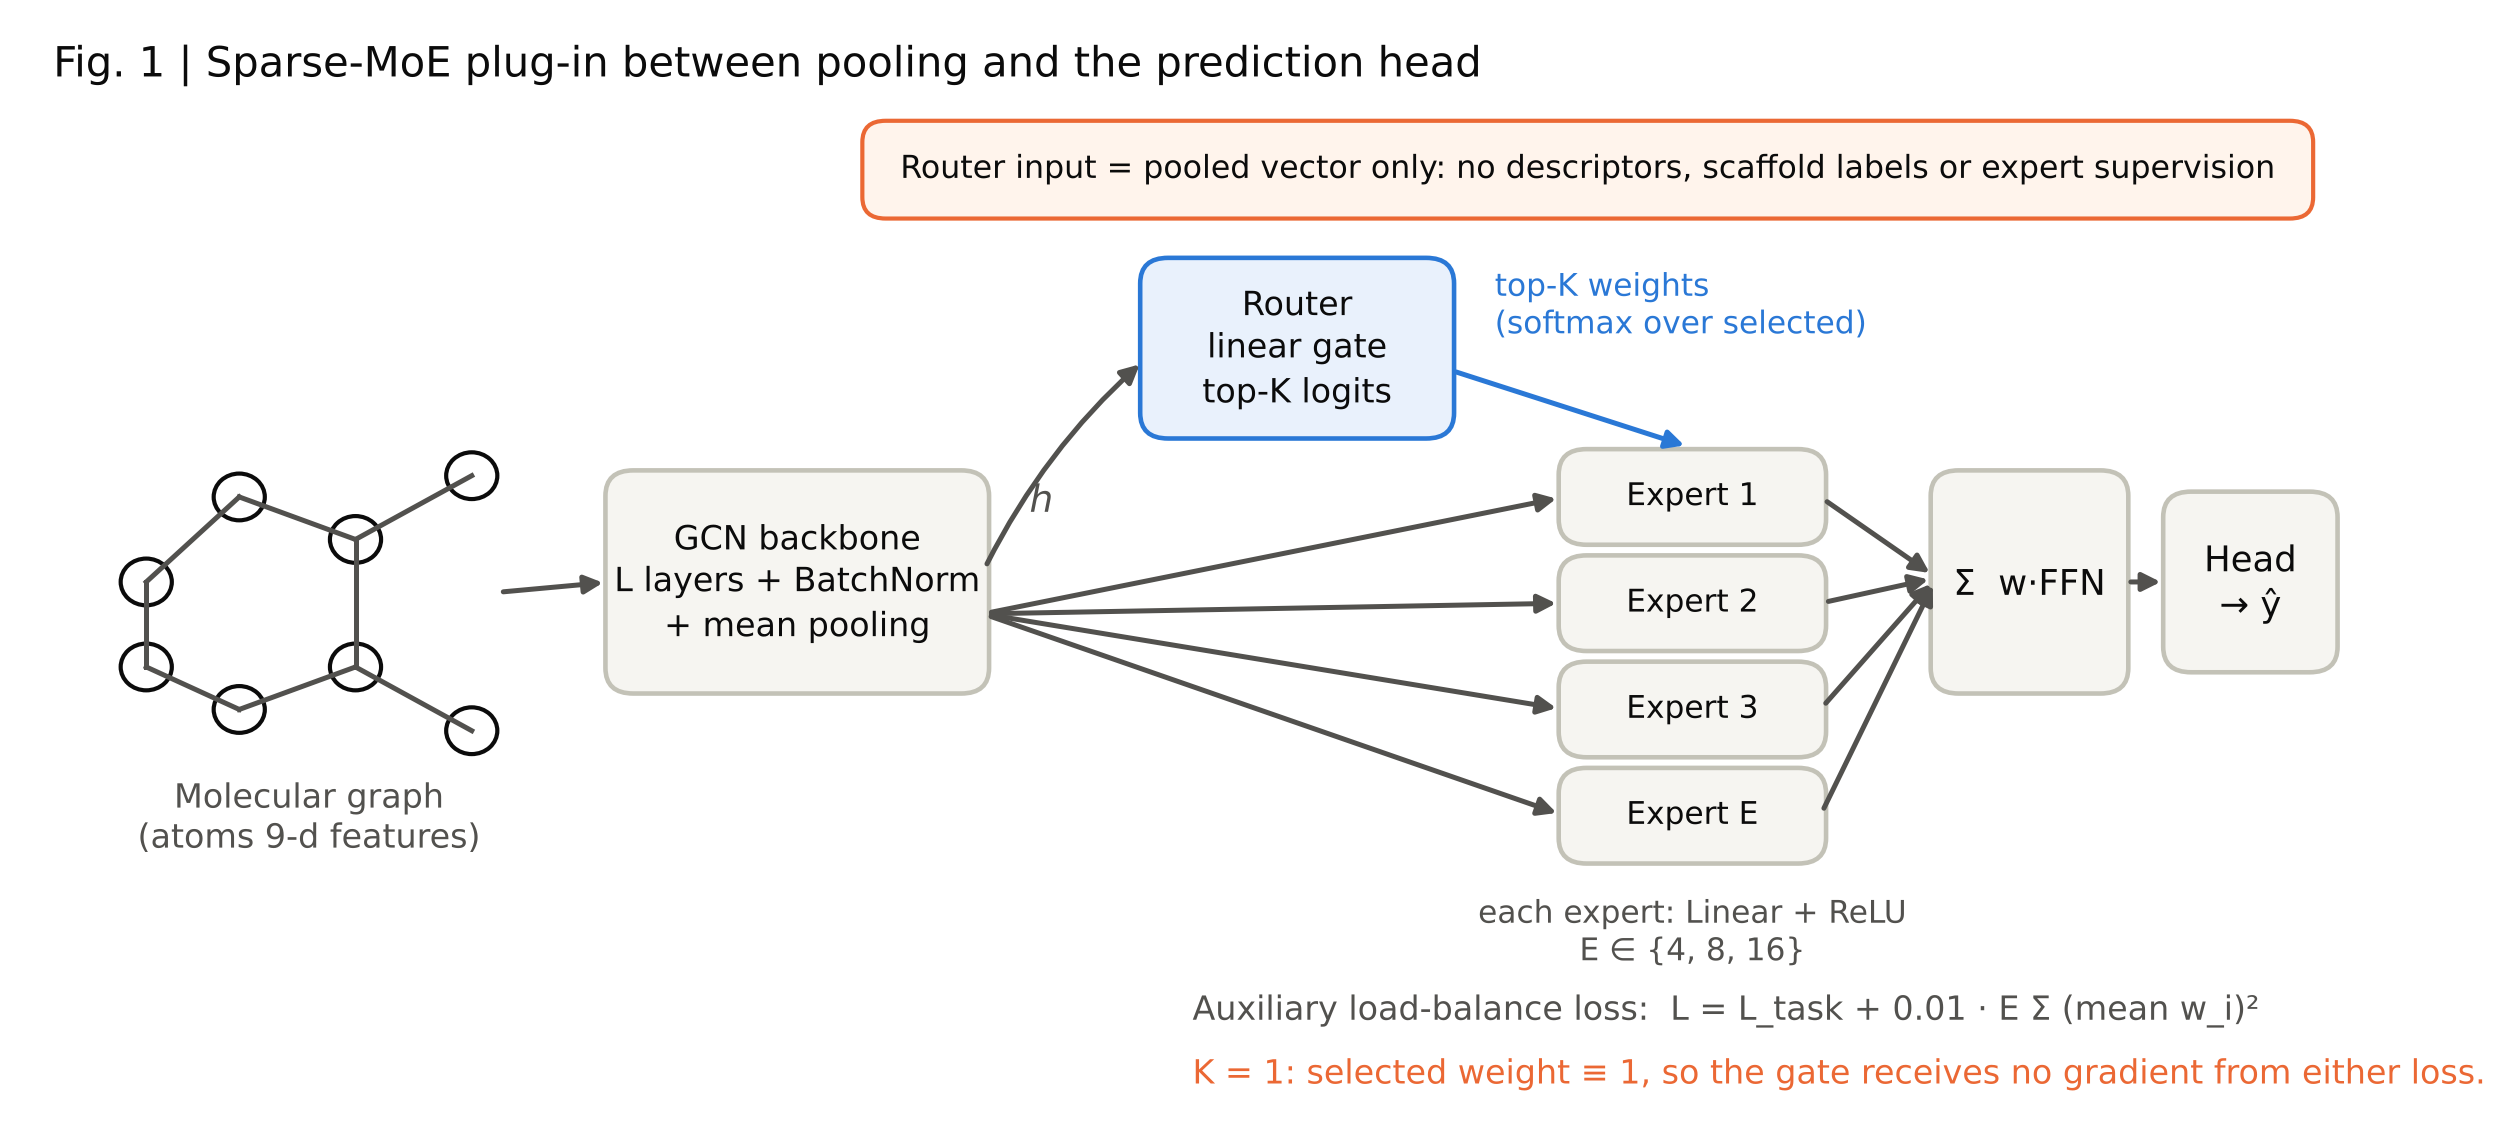
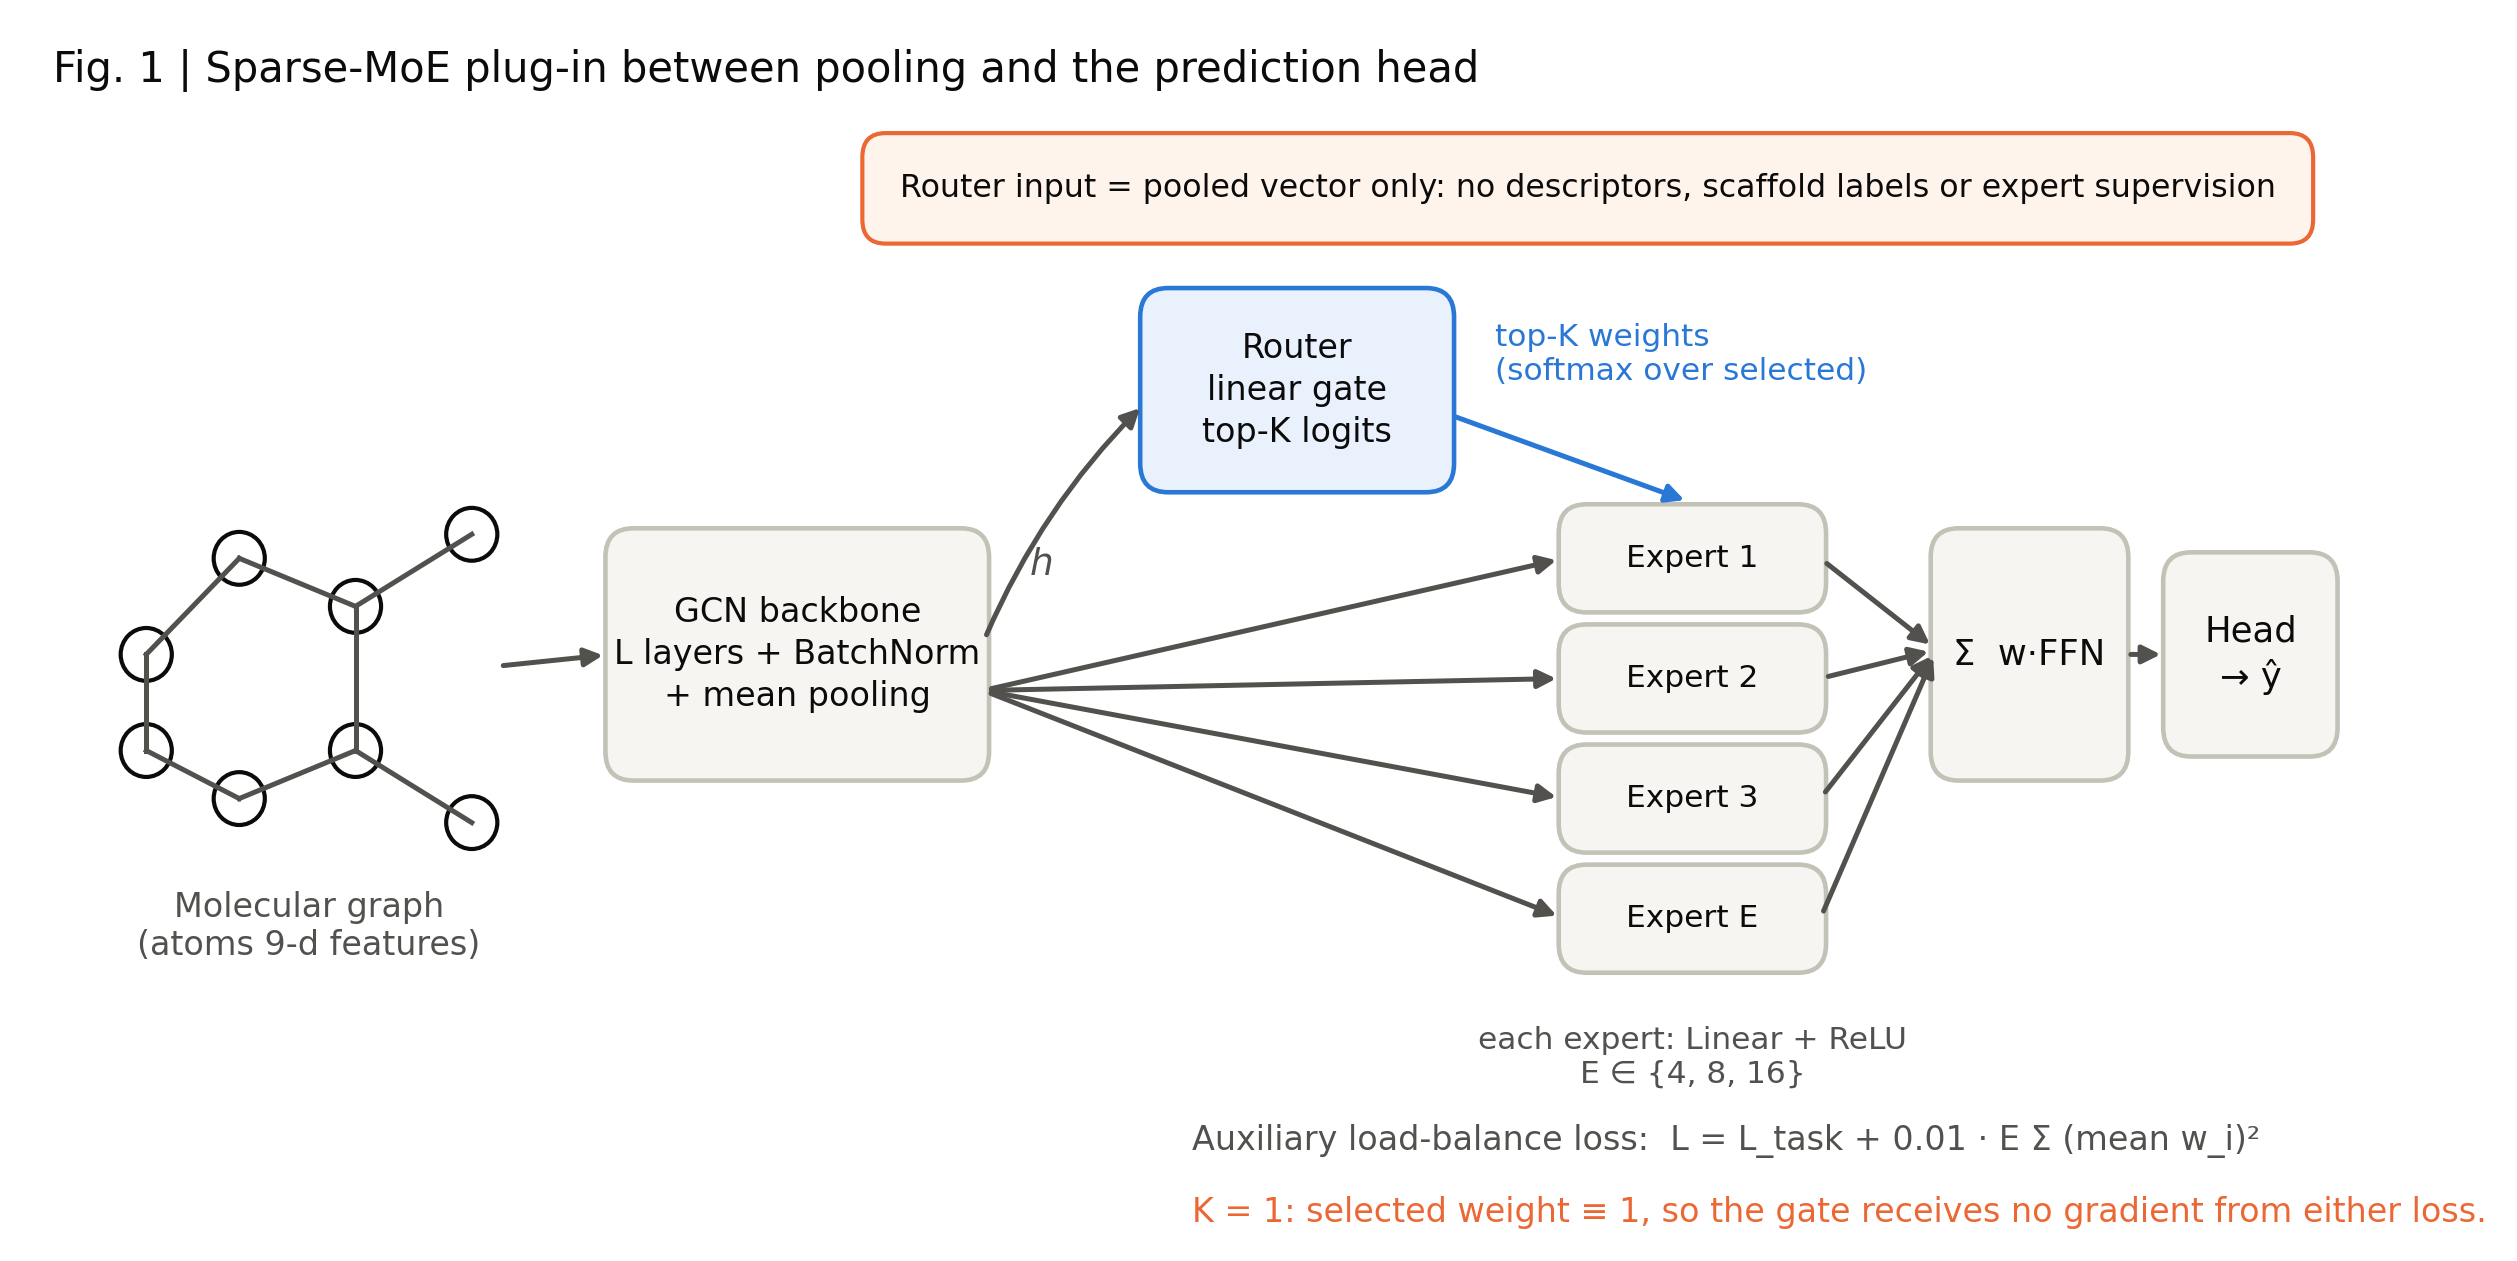
Fig. 1: taller canvas to meet 1500x1200 px minimum
Claude-Session: https://claude.ai/code/session_01XMT4KeqgWs76PN7Ljkai5r

diff --git a/paper_v2/make_fig1.py b/paper_v2/make_fig1.py
@@ -3,7 +3,7 @@ import matplotlib.pyplot as plt
 from matplotlib.patches import FancyBboxPatch, FancyArrowPatch, Circle
 plt.rcParams.update({"font.family":"DejaVu Sans"})
 INK="#0b0b0b";SEC="#52514e";LINE="#c3c2b7";BL="#2a78d6";OR="#eb6834";GR="#1baf7a"
-fig,ax=plt.subplots(figsize=(10,4.6),dpi=300);ax.set_xlim(0,100);ax.set_ylim(0,50);ax.axis("off")
+fig,ax=plt.subplots(figsize=(10,5.2),dpi=300);ax.set_xlim(0,100);ax.set_ylim(0,50);ax.axis("off")
 def box(x,y,w,h,txt,fc="#f6f5f1",ec=LINE,fs=8.5,bold=False,tc=INK):
     ax.add_patch(FancyBboxPatch((x,y),w,h,boxstyle="round,pad=0.25,rounding_size=1.2",fc=fc,ec=ec,lw=1.1))
     ax.text(x+w/2,y+h/2,txt,ha="center",va="center",fontsize=fs,color=tc,fontweight="bold" if bold else "normal",linespacing=1.35)
